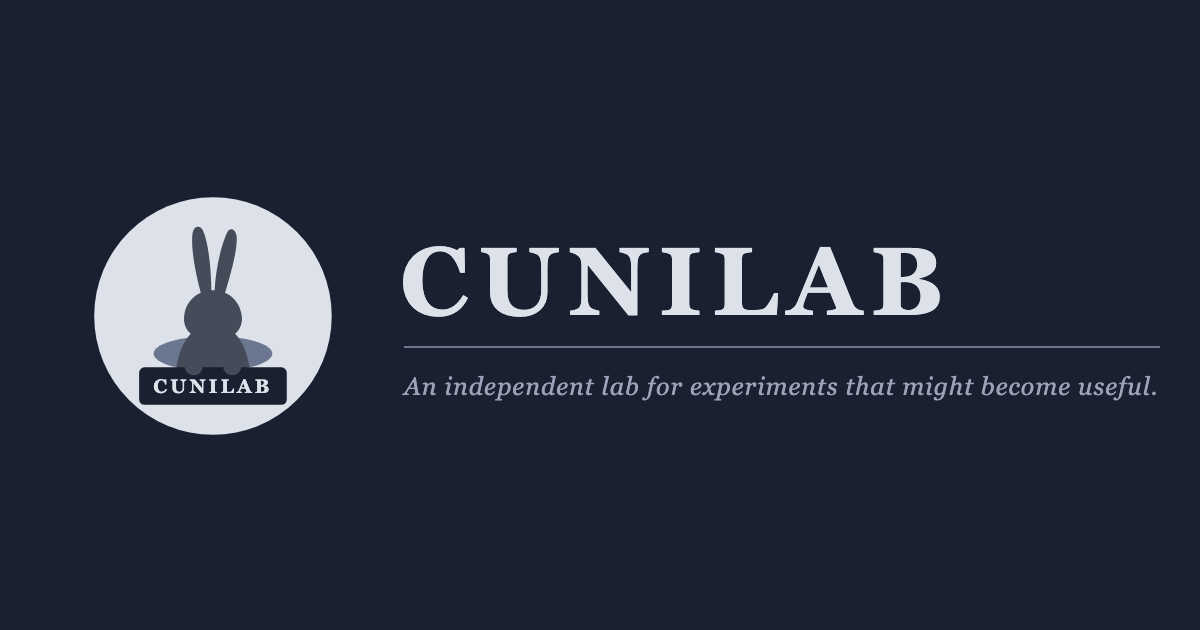
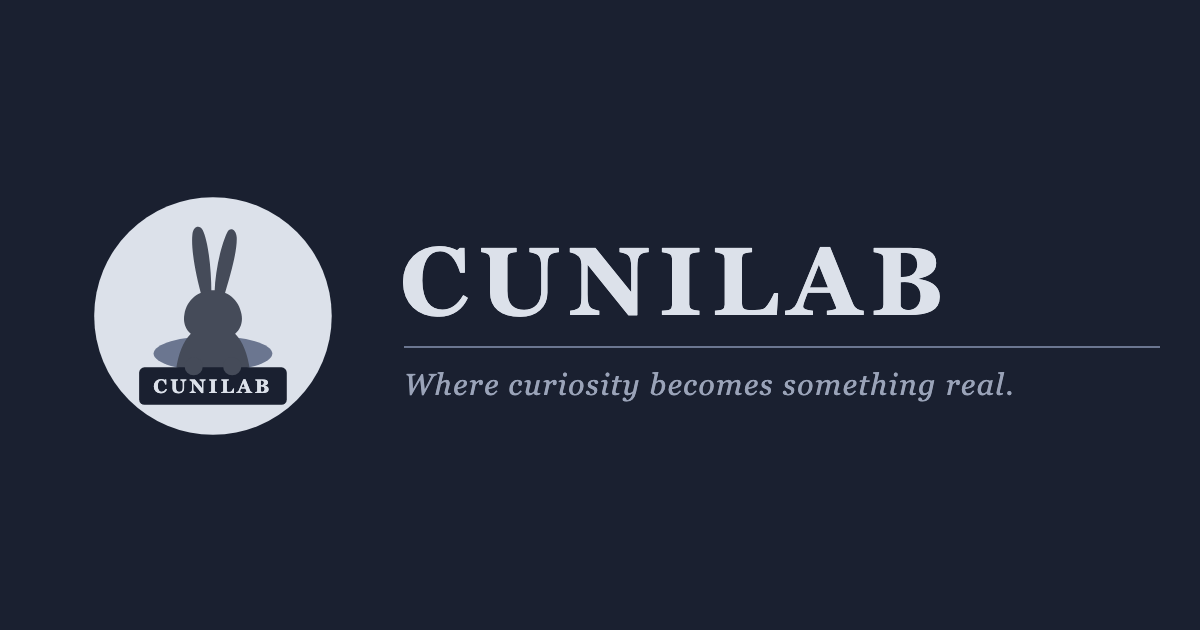
Broaden wording to stay open to any future direction
Drop "independent" and the location, use the new tagline "Where curiosity
becomes something real.", and soften lines that ruled out products,
private work, or planned projects.

Changed region(s): [[0.3392, 0.573, 0.9558, 0.6333]]

diff --git a/index.html b/index.html
@@ -5,7 +5,7 @@
   <meta name="viewport" content="width=device-width, initial-scale=1.0" />
   <meta name="theme-color" content="#1A2030" />
   <title>Cunilab: down the rabbit hole, on purpose</title>
-  <meta name="description" content="Cunilab is an independent lab for experiments that might become useful. Ask. Test. Build. Learn. Repeat." />
+  <meta name="description" content="Cunilab: where curiosity becomes something real. Ask. Test. Build. Learn. Repeat." />
   <link rel="canonical" href="https://cunilab.github.io/" />
   <link rel="icon" type="image/svg+xml" href="./favicon.svg" />
   <link rel="apple-touch-icon" href="./apple-touch-icon.png" />
@@ -13,7 +13,7 @@
   <meta property="og:type" content="website" />
   <meta property="og:site_name" content="Cunilab" />
   <meta property="og:title" content="Cunilab: down the rabbit hole, on purpose" />
-  <meta property="og:description" content="An independent lab for experiments that might become useful." />
+  <meta property="og:description" content="Where curiosity becomes something real." />
   <meta property="og:image" content="https://cunilab.github.io/og.png" />
   <meta property="og:image:width" content="1200" />
   <meta property="og:image:height" content="630" />
@@ -27,9 +27,8 @@
     "name": "Cunilab",
     "url": "https://cunilab.github.io/",
     "logo": "https://cunilab.github.io/apple-touch-icon.png",
-    "description": "An independent lab for experiments that might become useful.",
+    "description": "Where curiosity becomes something real.",
     "foundingDate": "2025",
-    "foundingLocation": "Jakarta, Indonesia",
     "sameAs": ["https://github.com/cunilab"]
   }
   </script>
@@ -50,8 +49,8 @@
   <main>
     <section class="hero">
       <img src="./logo.svg" alt="Cunilab logo: a rabbit climbing out of its hole, holding the Cunilab sign" class="hero-logo" width="240" height="240" />
-      <p class="eyebrow">Jakarta, Indonesia · Since 2025</p>
-      <h1>An independent lab for experiments that might become&nbsp;useful.</h1>
+      <p class="eyebrow">Since 2025</p>
+      <h1>Where curiosity becomes something&nbsp;real.</h1>
       <p class="loop">Ask <span>·</span> Test <span>·</span> Build <span>·</span> Learn <span>·</span> Repeat</p>
       <div class="cta">
         <a class="btn primary" href="https://github.com/cunilab" rel="noopener">See the lab on GitHub</a>
@@ -78,7 +77,7 @@
 
     <section class="section quote">
       <h2>What happens if we try this?</h2>
-      <p class="lead">That question is where every experiment here starts. We don't start with a product plan. We start with curiosity, turn it into an experiment, and build just enough to see what's real. Some experiments become tools. Some become knowledge. Some fail, and that's data too.</p>
+      <p class="lead">That question is where every experiment here starts. Sometimes it starts with a question, sometimes with a problem or a plan. Either way, we turn it into an experiment and build just enough to see what's real. Some experiments become tools. Some become knowledge. Some fail, and that's data too.</p>
     </section>
 
     <section id="philosophy" class="section">
@@ -118,10 +117,10 @@
     <section class="section">
       <p class="label">Lab rules</p>
       <ul class="rules">
-        <li><strong>Curiosity over roadmap.</strong> The subject can change; the method doesn't.</li>
+        <li><strong>Curiosity first.</strong> The subject can change; the method doesn't.</li>
         <li><strong>Small and real beats big and imagined.</strong></li>
         <li><strong>Failure is recorded, not hidden.</strong></li>
-        <li><strong>Open by default.</strong> If it's useful, share it.</li>
+        <li><strong>Share what helps.</strong> If it's useful, let others use it.</li>
       </ul>
     </section>
 
@@ -137,7 +136,7 @@
 
   <footer class="footer">
     <p><em>Cunilab: down the rabbit hole, on purpose.</em></p>
-    <p>Jakarta, Indonesia · <a href="https://github.com/cunilab" rel="noopener">GitHub</a> · <a href="mailto:andresholivin01@gmail.com">Contact</a></p>
+    <p><a href="https://github.com/cunilab" rel="noopener">GitHub</a> · <a href="mailto:andresholivin01@gmail.com">Contact</a></p>
   </footer>
 </body>
 </html>

diff --git a/README.md b/README.md
@@ -1,5 +1,5 @@
 # cunilab.github.io
 
-Cunilab website: an independent lab for experiments that might become useful.
+Cunilab website: where curiosity becomes something real.
 
 Plain static HTML and CSS, served by GitHub Pages from `main`. No build step.
